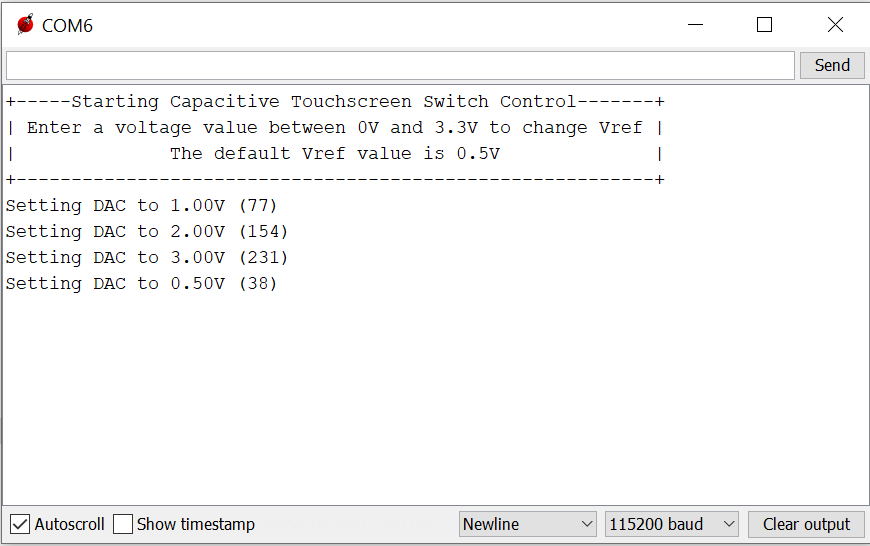
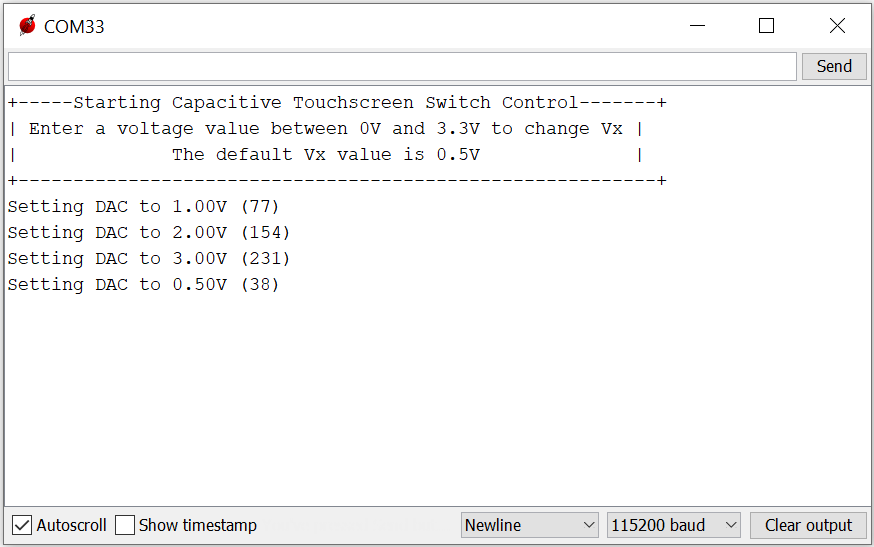
Notation change

diff --git a/eecs16a_touch_lab3_fa21_remote/scripts/autograder.py b/eecs16a_touch_lab3_fa21_remote/scripts/autograder.py
@@ -2,13 +2,13 @@ q_ans = {"c_pixel_no_touch" : 3.5416e-12,
         "c_pixel_w_touch" : 4.5416e-12,
         "v_no_touch" : 0.45757822532652614,
         "v_w_touch" : 0.5646713084365674,
-        "v_ref" : 0.5111247668815468}
+        "v_x" : 0.5111247668815468}
     
 q_exp = {"c_pixel_no_touch" : "Plugging in the values for dimensions (L, d, and t) as well as the given epsilon and kappa (k) values into the equation for capacitance should yield the correct answer.",
         "c_pixel_w_touch" : "Adding C_pixel_no_touch to the given C_delta should yield the correct answer.",
         "v_no_touch" : "Recall that charge is conserved in \"floating\" nodes. V+ is floating since it is connected to only capacitor plates in Phase 4. Thus, the charge on those plates must be conserved. In Phase 3, the charge on C_ref = 0, since C_ref was just grounded. However, the charge on C_pixel = Vdd * C_pixel. Thus, in Phase 4, the combined charge on C_ref and C_pixel is Vdd * C_pixel, which yields the following equivalence: V+ * C_pixel + V+ * C_ref = Vdd * C_pixel. We can solve for V+ using C_pixel = C_pixel_no_touch.",
         "v_w_touch": "Recall that charge is conserved in \"floating\" nodes. V+ is floating since it is connected to only capacitor plates in Phase 4. Thus, the charge on those plates must be conserved. In Phase 3, the charge on C_ref = 0, since C_ref was just grounded. However, the charge on C_pixel = Vdd * C_pixel. Thus, in Phase 4, the combined charge on C_ref and C_pixel is Vdd * C_pixel, which yields the following equivalence: V+ * C_pixel + V+ * C_ref = Vdd * C_pixel. We can solve for V+ using C_pixel = C_pixel_w_touch.",
-        "v_ref" : "We can select a good v_ref value by choosing something in between v_no_touch and v_w_touch. To best protect us from noise, a good option would be to choose the arithmetic mean of v_no_touch and v_w_touch, i.e., (v_no_touch + v_w_touch)/2."}
+        "v_x" : "We can select a good reference v_x value by choosing something in between v_no_touch and v_w_touch. To best protect us from noise, a good option would be to choose the arithmetic mean of v_no_touch and v_w_touch, i.e., (v_no_touch + v_w_touch)/2."}
 
 def autograde(answer=-1, question="3a-1", no_check=False, no_exp_if_cor=False, tolerance_pct=5.0):
     answer = float(answer)
